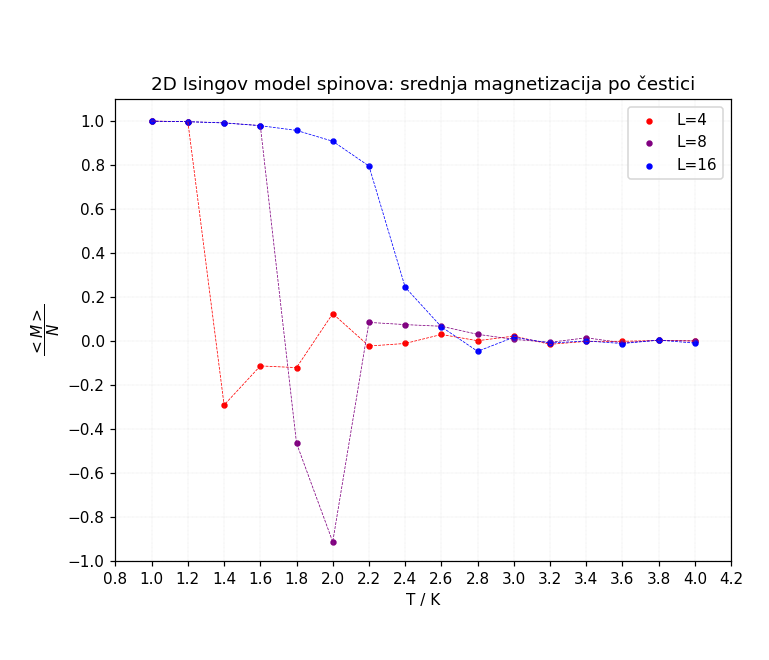
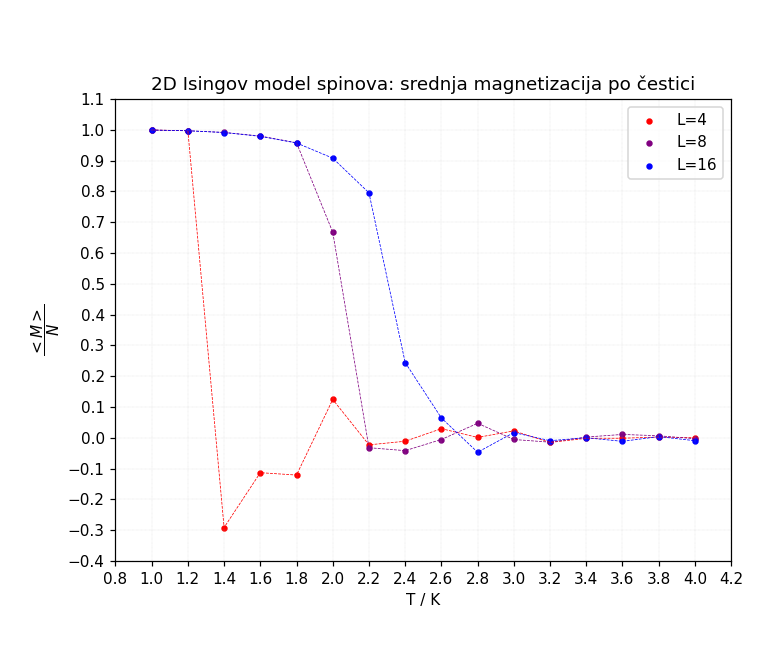
bolji grafovi

diff --git a/Vjez9_Ising/visual.py b/Vjez9_Ising/visual.py
@@ -73,7 +73,7 @@ for i in range(len(fEM4)):
     E16.append(fEM16[i, 1])
     M16.append(fEM16[i, 2])
     
-'''fig = plt.figure(figsize=(7,6), dpi=110)
+fig = plt.figure(figsize=(7,6), dpi=110)
 ax = fig.add_axes([0.15, 0.15, 0.80, 0.70])
 plt.rcParams.update({'font.size': 10}) #type: ignore
 ax.scatter(kT, E4, color='red', s=10, label='L=4')
@@ -91,7 +91,7 @@ ax.yaxis.set_major_locator(tick.MultipleLocator(0.1))
 ax.grid(lw=0.2, linestyle=':')
 ax.legend(loc='upper left')
 ax.set_title('2D Isingov model spinova: srednja energija po čestici')
-plt.show()'''
+plt.show()
 
 fig = plt.figure(figsize=(7,6), dpi=110)
 ax = fig.add_axes([0.15, 0.15, 0.80, 0.70])
@@ -103,11 +103,11 @@ ax.plot(kT, M4, color='red', lw=0.5, linestyle='--')
 ax.plot(kT, M8, color='purple', lw=0.5, linestyle='--')
 ax.plot(kT, M16, color='blue', lw=0.5, linestyle='--')
 ax.set_xlim(0.8, 4.2)
-ax.set_ylim(-1.0, 1.1)
+ax.set_ylim(-0.4, 1.1)
 ax.set_xlabel('T / K')
 ax.set_ylabel(r'$\dfrac{<M>}{N}$')
 ax.xaxis.set_major_locator(tick.MultipleLocator(0.2))
-ax.yaxis.set_major_locator(tick.MultipleLocator(0.2))
+ax.yaxis.set_major_locator(tick.MultipleLocator(0.1))
 ax.grid(lw=0.2, linestyle=':')
 ax.legend(loc='upper right')
 ax.set_title('2D Isingov model spinova: srednja magnetizacija po čestici')

diff --git a/Vjez9_Ising/Z9.py b/Vjez9_Ising/Z9.py
@@ -1,6 +1,6 @@
 import numpy as np
 
-L = 4 #dimenzija resetke L*L
+L = 16 #dimenzija resetke L*L
 kT0 = 1.0 #podetna temperatura
 dkT = 0.2
 NkT = 15 #broj temperaturnih koraka (4.0-1.0)/0.2
